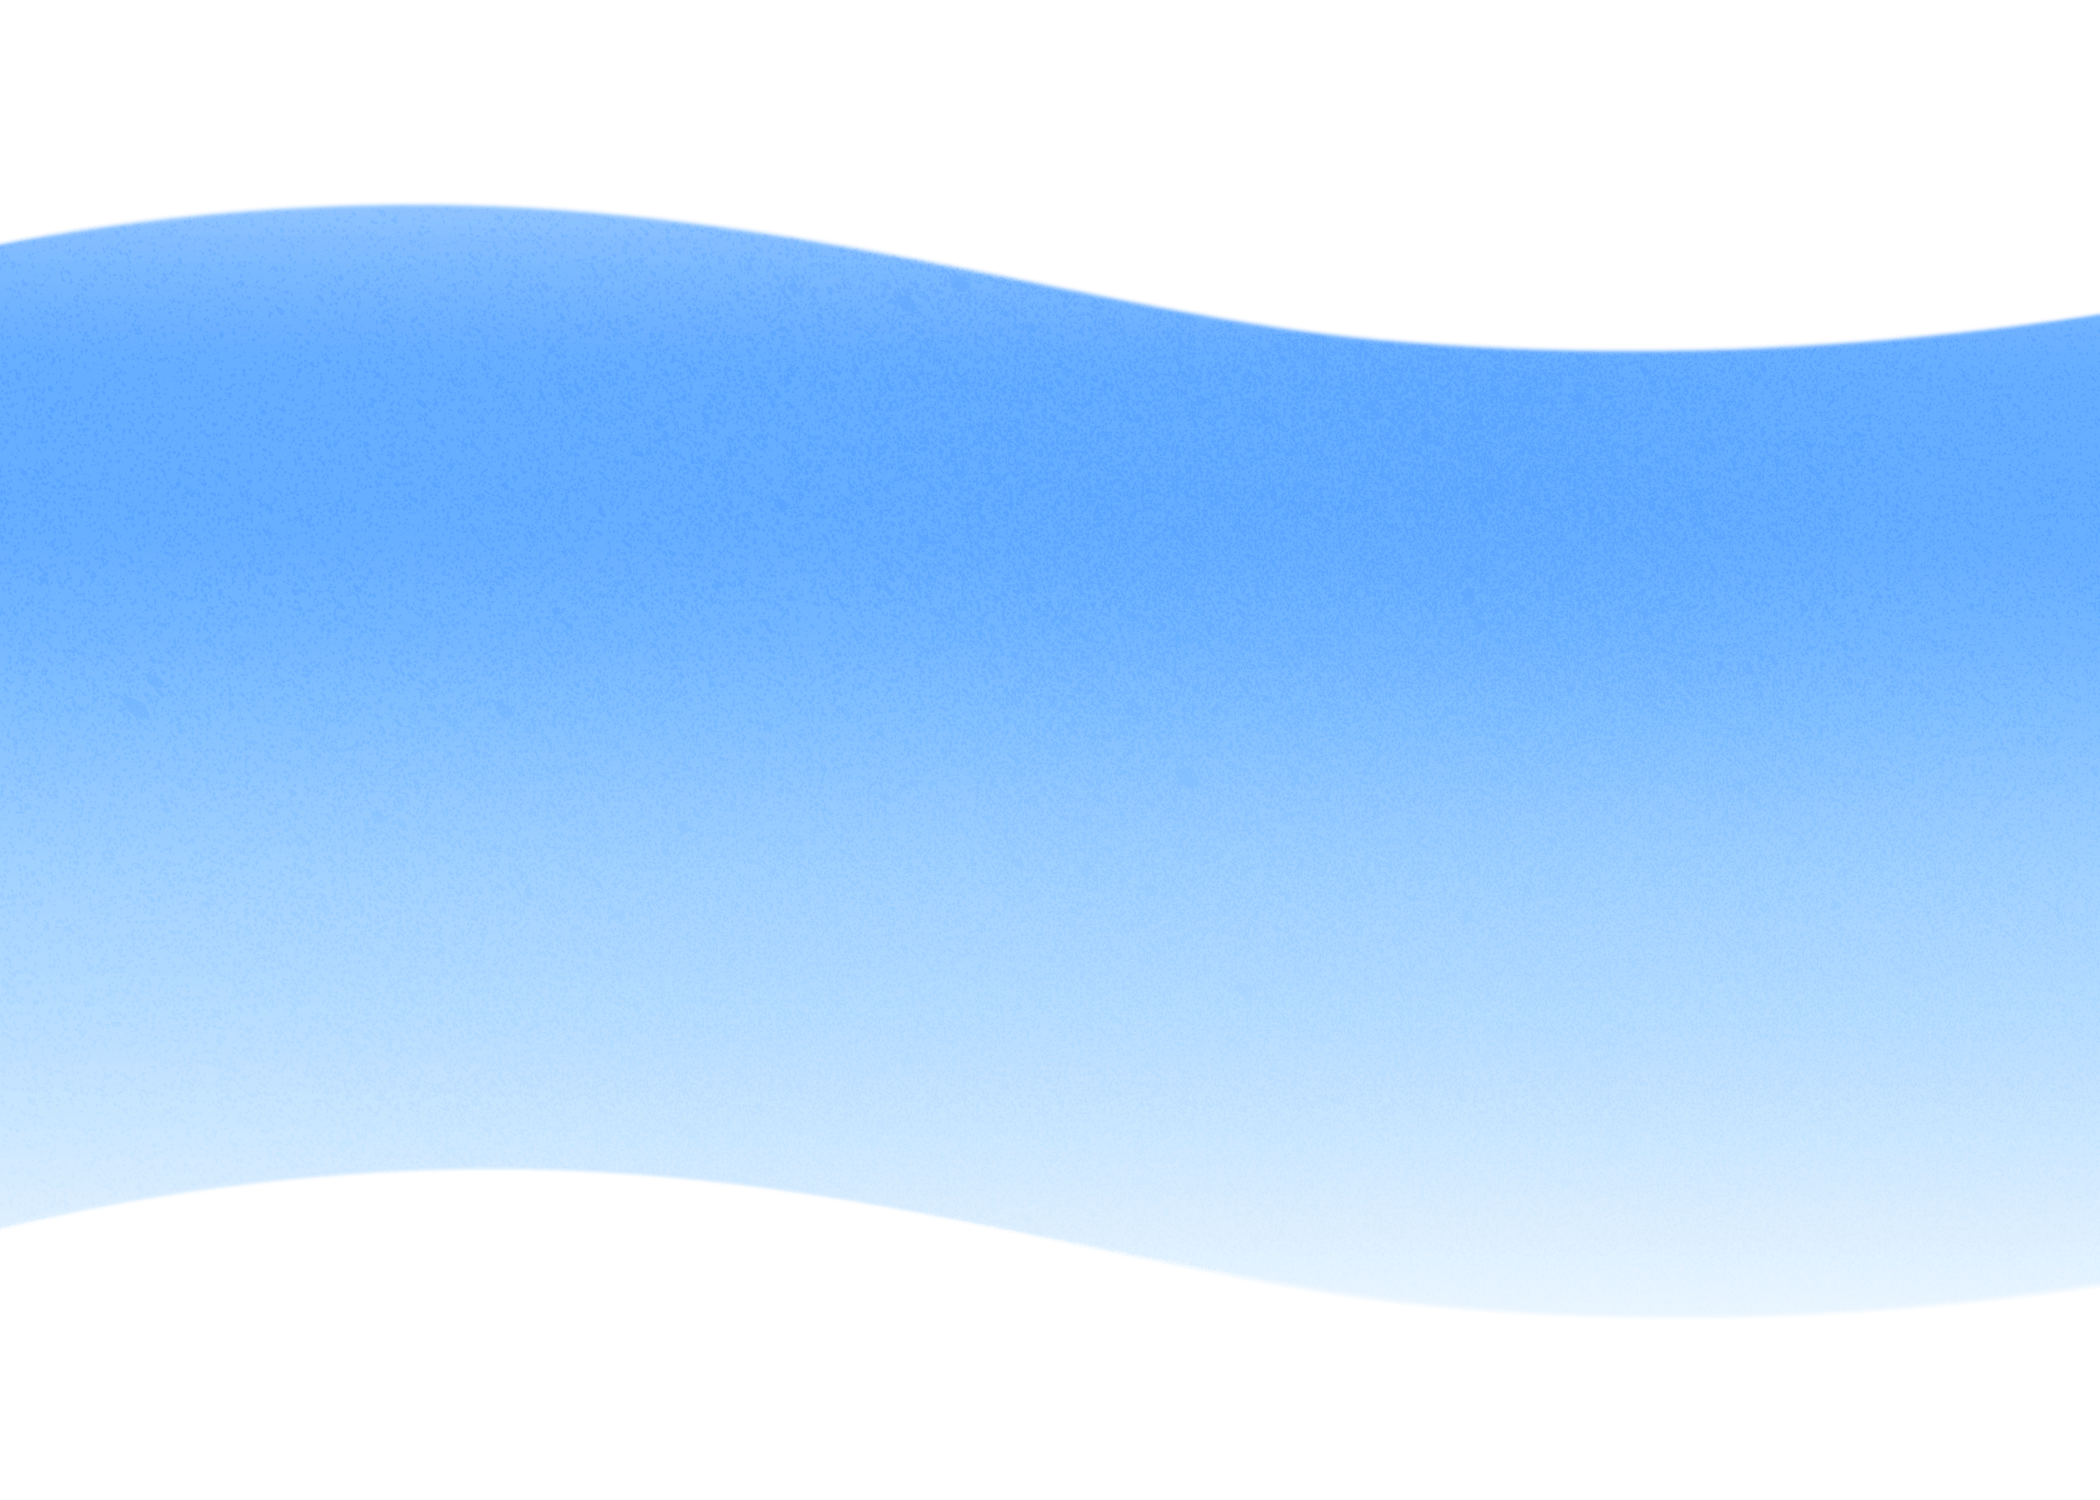
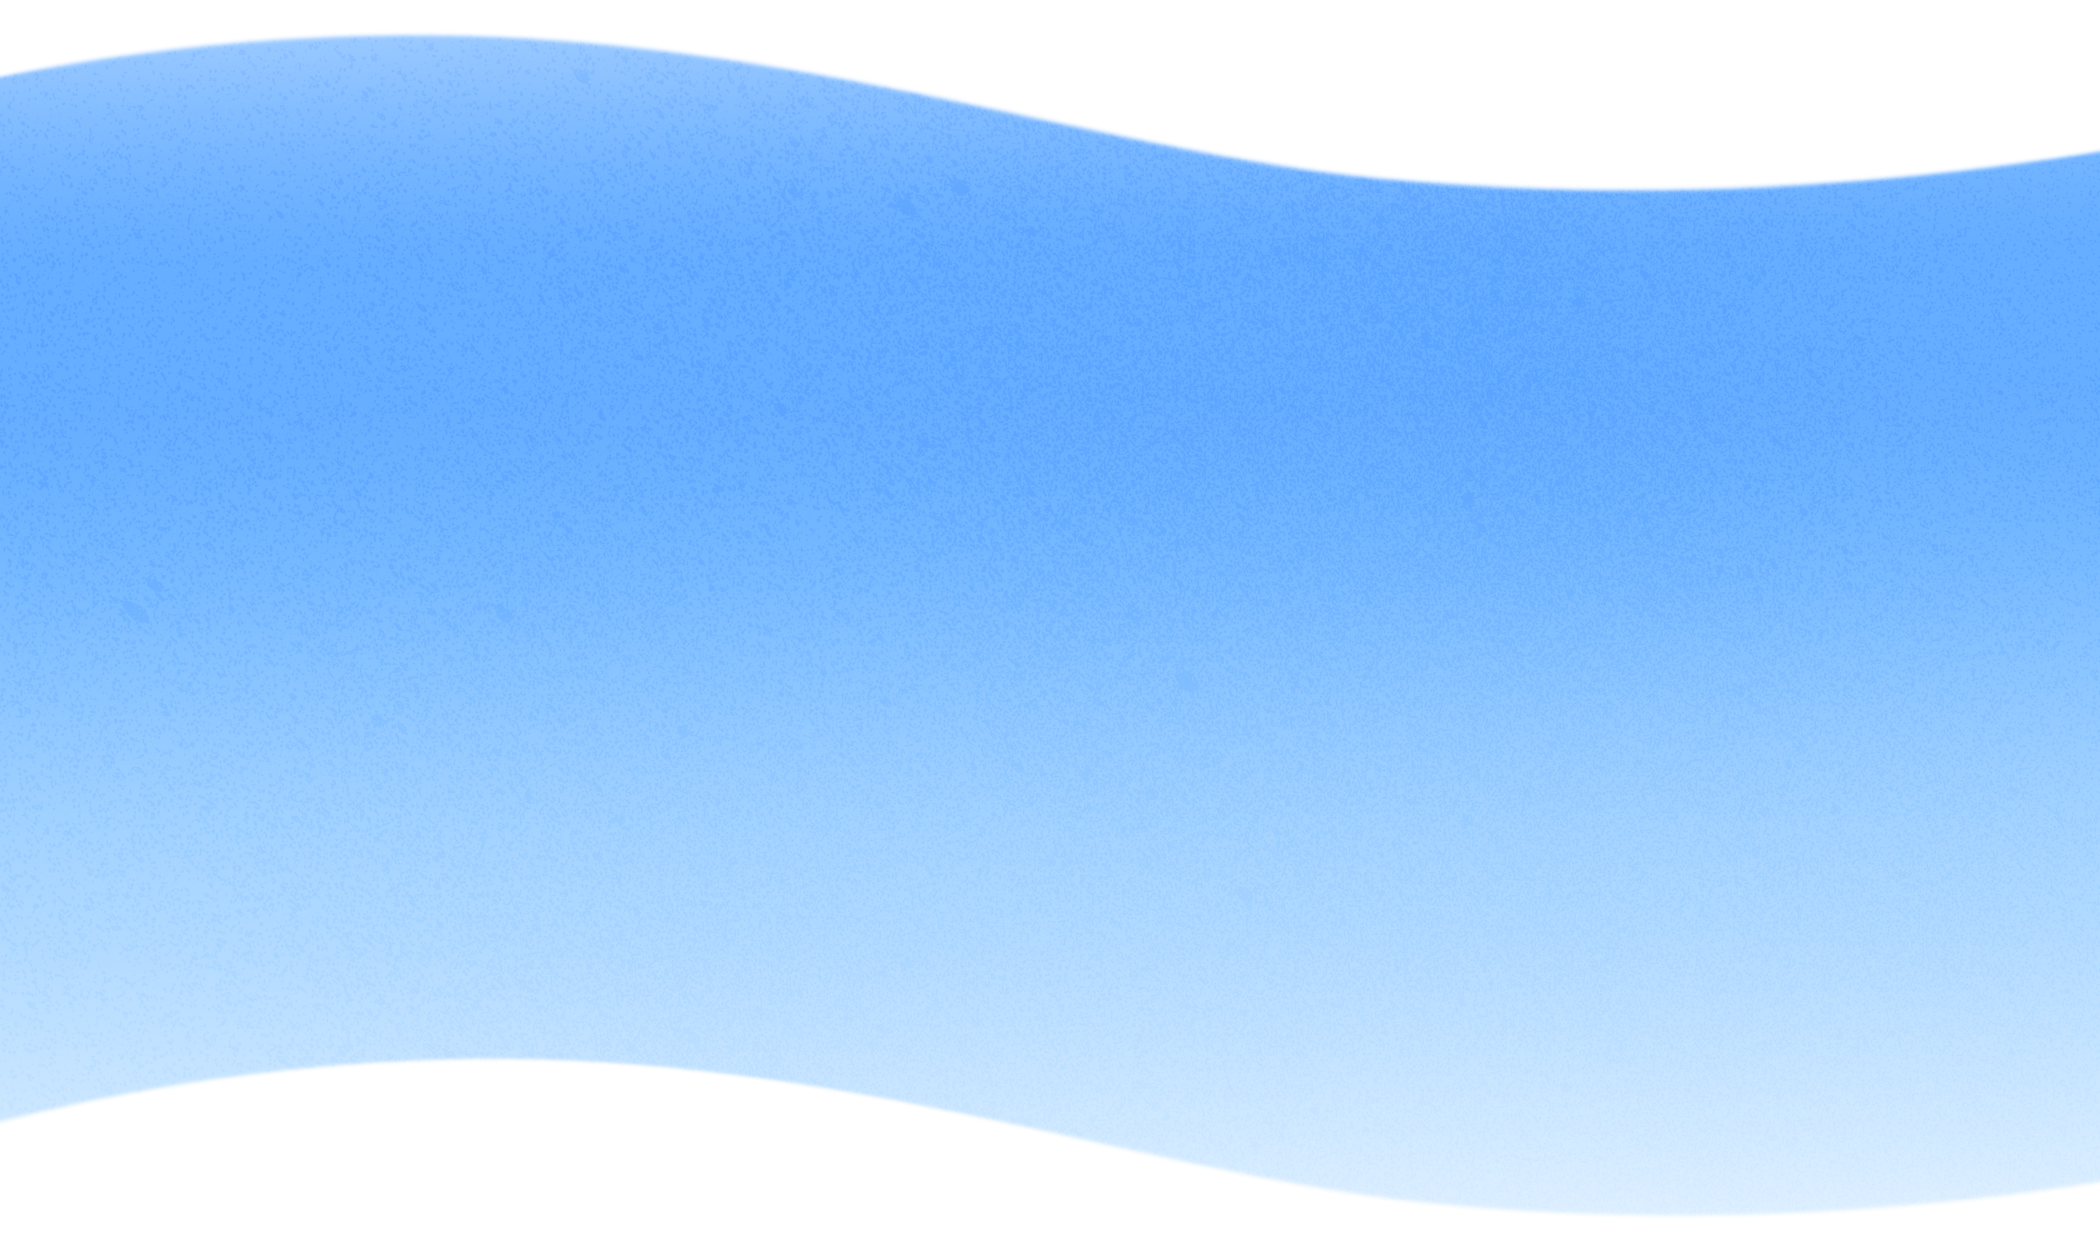
background image changes

diff --git a/ui/process/Process.tsx b/ui/process/Process.tsx
@@ -9,7 +9,7 @@ export function Process() {
   const isSmallScreen = width < 964;
 
   return (
-    <section className="flex fade-bg bg-cover bg-bottom pt-[16rem] pb-[7rem] sm:pb-[15rem] w-full gap-5 items-center flex-col">
+    <section className="flex fade-bg bg-cover bg-center pt-[16rem] pb-[7rem] sm:pb-[15rem] w-full gap-5 items-center flex-col">
       <div className="px-3 w-full max-w-7xl overflow-hidden">
         <h2 className="text-center sm:text-left text-5xl font-light tracking-wider mb-5 text-white">
           Setting your
@@ -35,7 +35,7 @@ export function Process() {
           animate={{
             x: isSmallScreen ? 320 : 0
           }}
-          className="flex flex-row justify-center items-center gap-3 sm:gap-10 py-5 px-5 select-none"
+          className="flex flex-row justify-center items-center gap-3 sm:gap-10 py-5 px-5 select-none mb-40"
         >
           <div className="shrink-0 shadow-[0_20px_#FFEC8D] sm:shadow-[-18px_18px_#FFEC8D] drop-shadow-md pt-5 pb-3 px-2 border bg-white border-gray-200 h-[400px] rounded-[20px] max-w-[320px] sm:max-w-[320px] flex flex-col justify-center items-center">
             <div className="w-24 h-24">

diff --git a/ui/pricing/Pricing.tsx b/ui/pricing/Pricing.tsx
@@ -1,13 +1,13 @@
 export function Pricing() {
   return (
-    <section id='pricing' className="pricing-bg bg-center w-full bg-fill bg-no-repeat pt-[8rem] mb-20">
+    <section id='pricing' className="pricing-bg w-full bg-fill bg-no-repeat pt-[8rem] mb-20">
       <div className=" px-3 flex flex-col  gap-10 justify-center items-center">
         <div className="w-full max-w-7xl">
           <h2 className="text-5xl font-light tracking-wider text-black ">
             My <span className="font-bold text-teal-500"> Pricing </span>
           </h2>
         </div>
-        <div className="text-center text-black  tracking-wide mx-auto text-[18px] max-w-[700px]">
+        <div className="text-center text-black  tracking-wide mx-auto text-[18px] max-w-[700px] mb-6">
           <p>
             I want to <span className="font-bold">empower </span>as many people
             as possible, which is why I keep my pricing very{" "}

diff --git a/ui/faq/FAQ.tsx b/ui/faq/FAQ.tsx
@@ -201,7 +201,7 @@ export function FAQ() {
           <span className="text-pink-500 font-bold">Questions</span>
         </h2>
       </div>
-      <div className="flex flex-col md:flex-row sm:gap-10 md:gap-20 w-full max-w-lg md:max-w-full justify-center">
+      <div className="flex flex-col md:flex-row gap-10 md:gap-20 w-full max-w-lg md:max-w-full justify-center">
         <div className="sm:w-[500px] sm:min-w-[400px] max-h-[406px] border border-gray-200 rounded-[20px] px-6 py-6 flex flex-col gap-3 drop-shadow-md bg-white">
           {Object.keys(topicTitles).map((key) => (
             <button

diff --git a/ui/aboutme/AboutMe.tsx b/ui/aboutme/AboutMe.tsx
@@ -27,7 +27,7 @@ export function AboutMe() {
           />
           <div className="absolute inset-0 rounded-[20px] pointer-events-none shadow-custom drop-shadow-md"></div>
         </div>
-        <p className="mt-[2rem] sm:mt-[1.5rem] flex text-center justify-center ">MS Clinical Mental Health Counseling</p>
+        {/* <p className="mt-[2.5rem] sm:mt-[1.5rem] flex text-center justify-center font-semibold tracking-wide">MS Clinical Mental Health Counseling</p> */}
         </div>
         <FileTabCard />
       </div>

diff --git a/ui/aboutme/FileTabCard.tsx b/ui/aboutme/FileTabCard.tsx
@@ -136,7 +136,7 @@ export function FileTabCard() {
             scrollbarGutter: "stable",
           }}
         >
-          <div className="overflow-auto z-20 lg:pr-[40px]">
+          <div className="overflow-auto z-20 pr-[10px] lg:pr-[40px]">
             <p>
               <span className="font-semibold">Aside from personal and lived experience with various aspects of
               mental health</span>, I have been working in the world of mental health

diff --git a/app/globals.css b/app/globals.css
@@ -46,6 +46,7 @@ div::-webkit-scrollbar-track {
 }
 
 .pricing-bg {
+  background-position: 50% 75%;
   background-image: url(../public/assets/pricing_background.png);
 }
 
